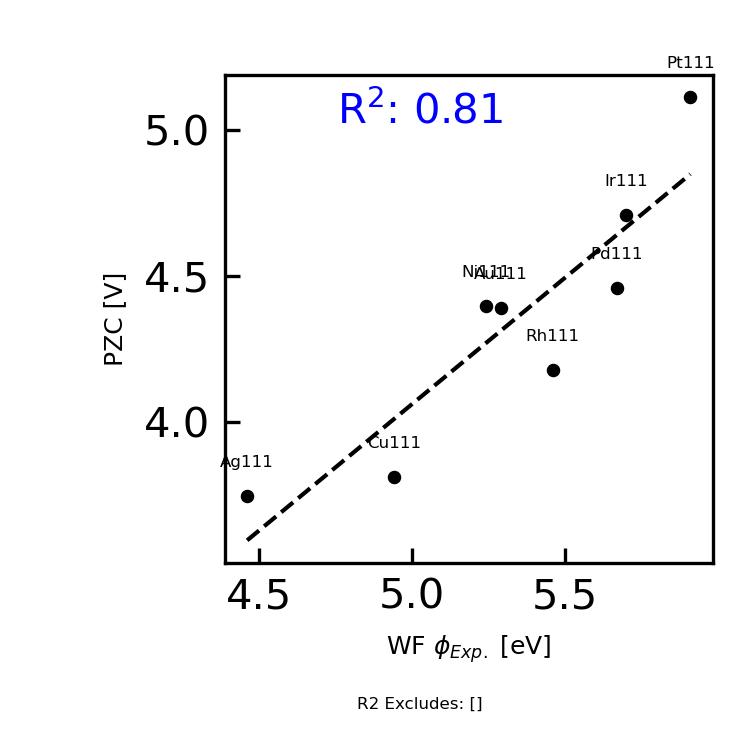
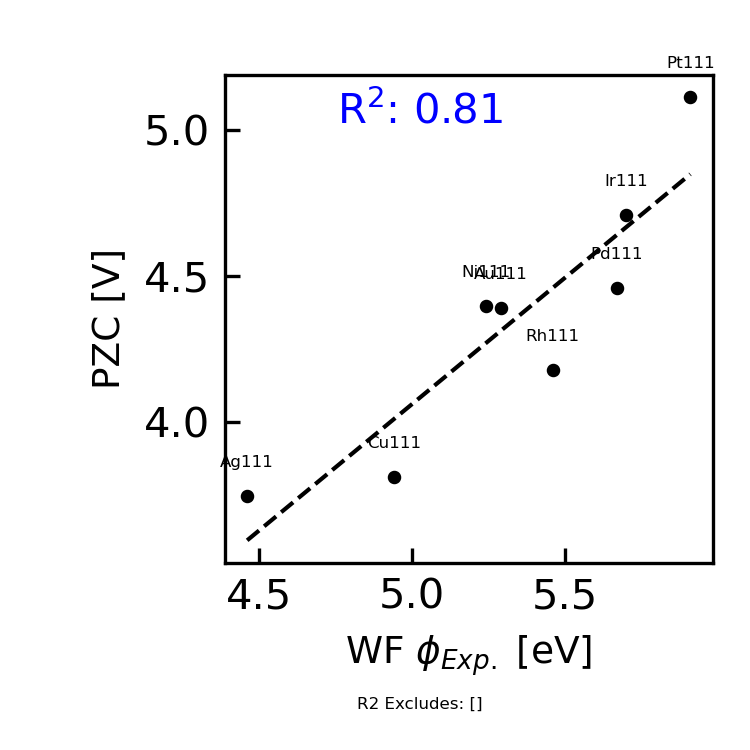
update

Changed region(s): [[0.46, 0.828, 0.7973, 0.8893], [0.1227, 0.3373, 0.184, 0.5213]]

diff --git a/Figures/Simiam/plot_Y_vs_X.py b/Figures/Simiam/plot_Y_vs_X.py
@@ -191,7 +191,7 @@ def plot_scatter(xvals, yvals,metals,terminations, xlabel, ylabel,xkey,ykey) :
 
 
         
-        fs=6
+        fs=9
         ax.set_xlabel(xlabel,fontsize=fs) 
         ax.set_ylabel(ylabel,fontsize=fs) 
     
@@ -235,8 +235,8 @@ if __name__ == "__main__":
         terminations.append(termination)
 
 
-    for ykey in ['i0','PZC']: 
-        for xkey in ['vsquaredREL','WF']:  
+    for ykey in ['i0','PZC','vac_Htop','vac_HBE','WF']: 
+        for xkey in ['vac_HBE','PZC','vsquaredREL','WF', 'dbandcenter','dbandupperedge']:  
         #,'dbandcenter','dbandupperedge','vsquaredREL']: 
         
             if ykey == 'i0':
@@ -245,6 +245,13 @@ if __name__ == "__main__":
             elif ykey == 'PZC':
                 yvals= np.array(  [df.loc[ df['metal'] == metal, ykey]  for metal in metals ] )
                 ylabel=r'PZC [V]'#   i0s [TOF]d-band upper edge (maj.spin.) [eV]'
+            elif ykey == 'vac_Htop':
+                yvals= np.array(  [df.loc[ df['metal'] == metal, ykey]  for metal in metals ] )
+                ylabel=r'vac Htop [eV]'#   i0s [TOF]d-band upper edge (maj.spin.) [eV]'
+            elif ykey == 'vac_HBE':
+                yvals= np.array(  [df.loc[ df['metal'] == metal, ykey]  for metal in metals ] )
+                ylabel=r'vac HBE [eV]'#   i0s [TOF]d-band upper edge (maj.spin.) [eV]'
+            
             elif ykey == 'WF':   
                 ylabel=r'WF $\phi_{Exp.}$ [eV]'
                 WF = []
@@ -277,6 +284,9 @@ if __name__ == "__main__":
          
                 WF = np.array(WF)
                 xvals=WF
+            elif xkey == 'vac_HBE':
+                xvals= np.array(  [df.loc[ df['metal'] == metal, xkey]  for metal in metals ] )
+                xlabel=r'vac HBE [eV]'#   i0s [TOF]d-band upper edge (maj.spin.) [eV]'
             
             elif xkey == 'dbandcenter': 
                 xvals  = np.array(  [TM.loc[ TM['metal'] == metal, xkey]  for metal in metals ] )
@@ -289,6 +299,9 @@ if __name__ == "__main__":
             elif xkey == 'vsquaredREL':
                 xvals  = np.array(  [TM.loc[ TM['metal'] == metal, xkey]  for metal in metals ] )
                 xlabel=r'V$_{ad}^2$ [Rel. Cu]' #eV$^2$]'
+            elif xkey == 'PZC':
+                xvals= np.array(  [df.loc[ df['metal'] == metal, xkey]  for metal in metals ] )
+                xlabel=r'PZC [V]'#   i0s [TOF]d-band upper edge (maj.spin.) [eV]'
             
                 
           #  #what is PCA using 2-dimensions??
